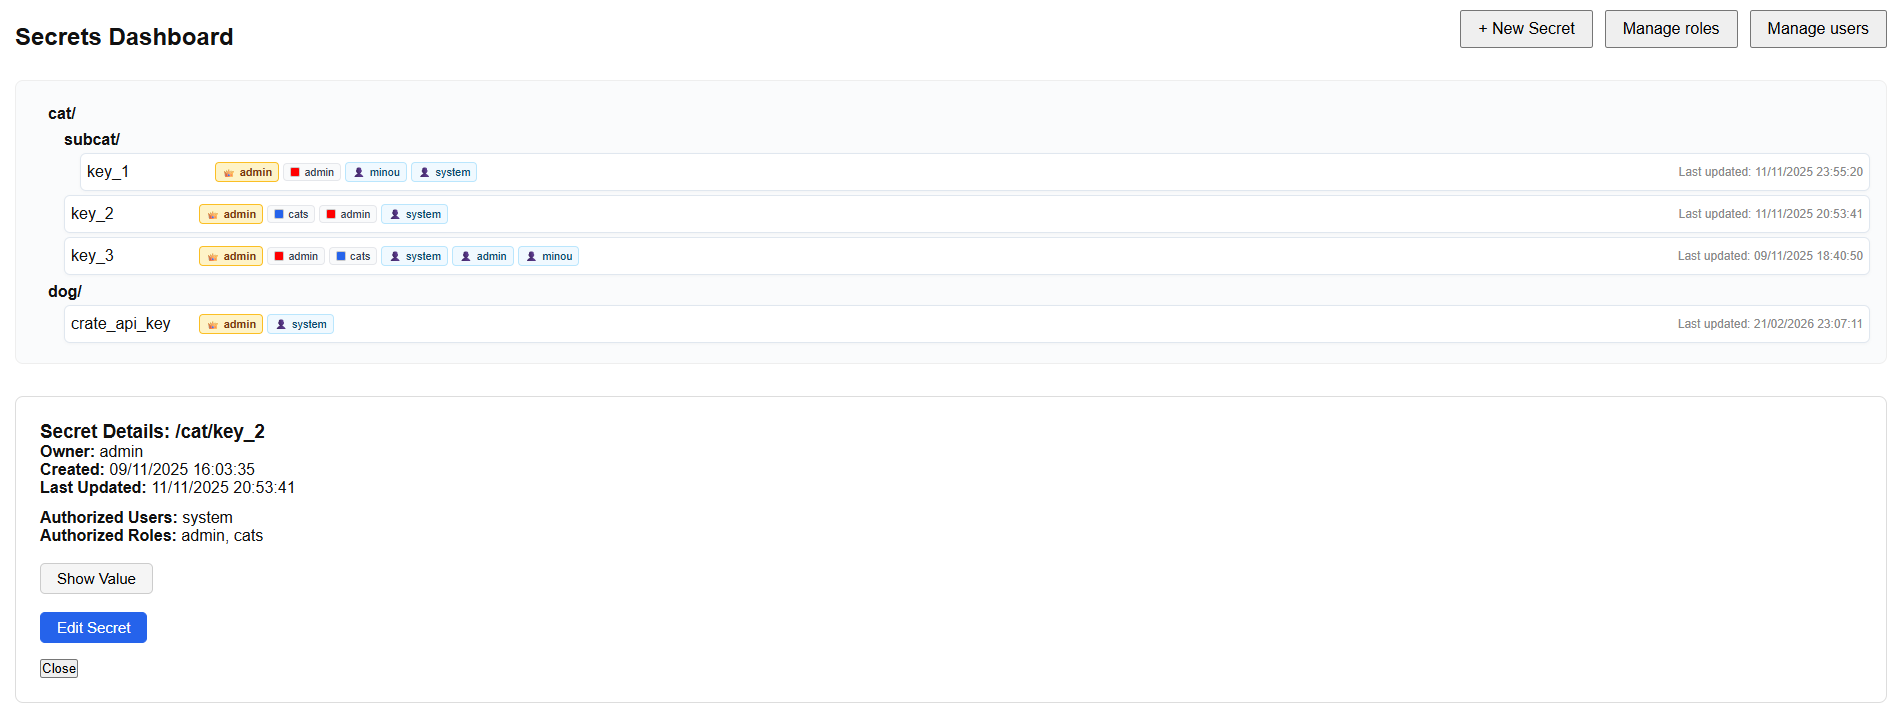
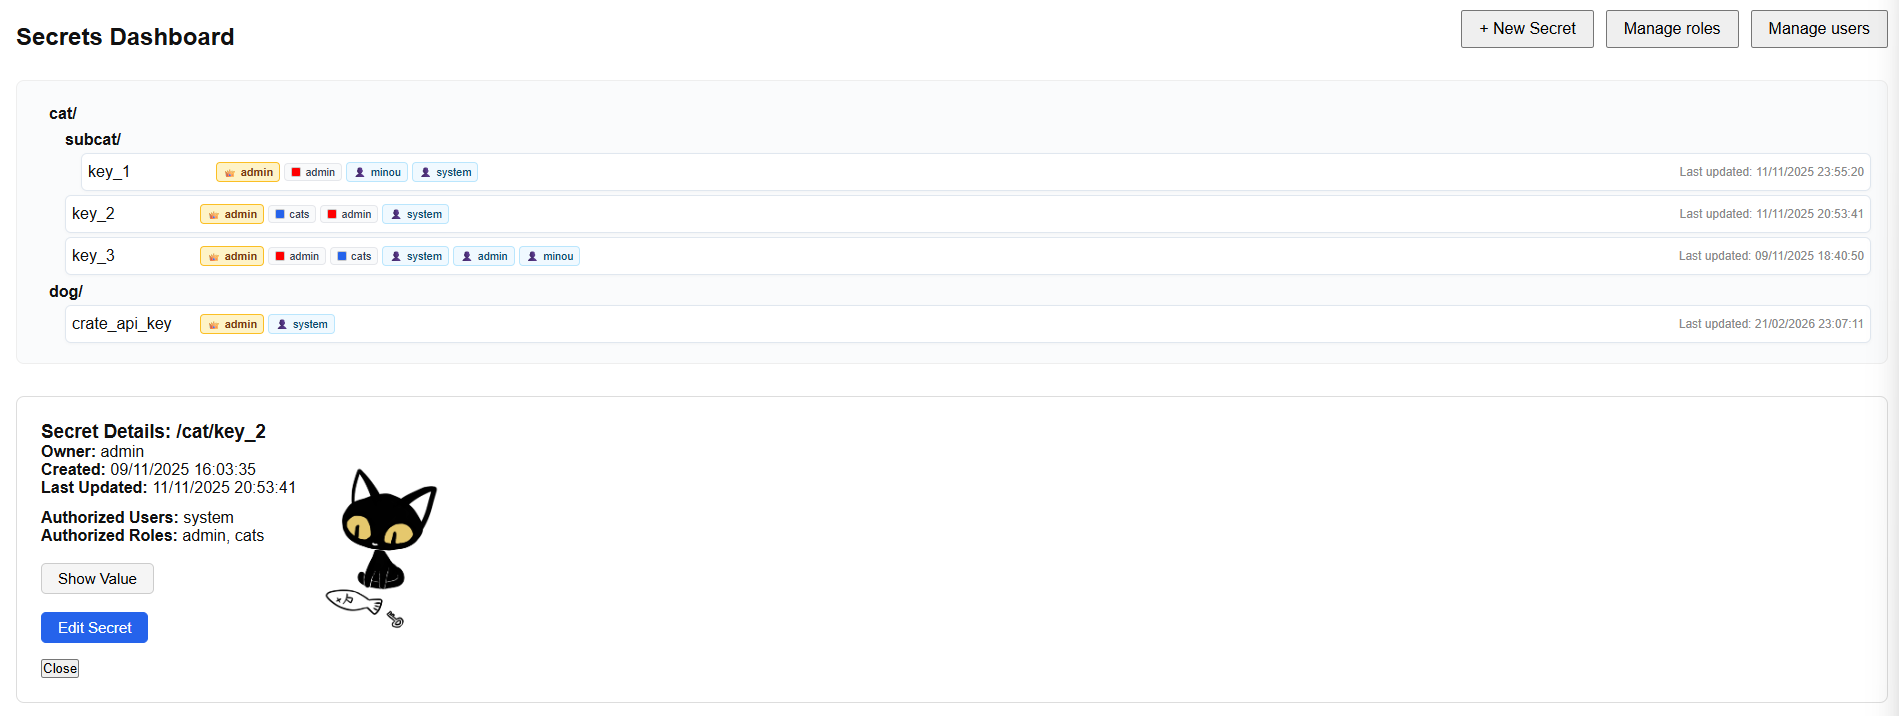
feat: add cute cats and update readme ^=^

diff --git a/ui/app/components/Dashboard.tsx b/ui/app/components/Dashboard.tsx
@@ -483,8 +483,12 @@ export default function Dashboard() {
                     borderRadius: 8,
                     padding: 24,
                     background: '#fff',
-                    minWidth: 340
+                    minWidth: 340,
+                    display: 'flex',
+                    alignItems: 'flex-start',
+                    gap: 24,
                 }}>
+                    <div>
                     <h3>Secret Details: {selectedSecret.path}</h3>
                     {secretInfoLoading ? (
                         <div>Loading secret info...</div>
@@ -943,6 +947,9 @@ export default function Dashboard() {
                         setShowRoleSelector(false);
                     }}>Close
                     </button>
+                    </div>
+                    <img src={showValue ? '/fishykeys-fish-eaten.png' : '/fishykeys-looking-left.png'} alt="FishyKeys"
+                         style={{width: 120, alignSelf: 'center'}}/>
                 </div>
             )}
             <CreateSecretModal open={showCreateModal} onClose={() => setShowCreateModal(false)}
